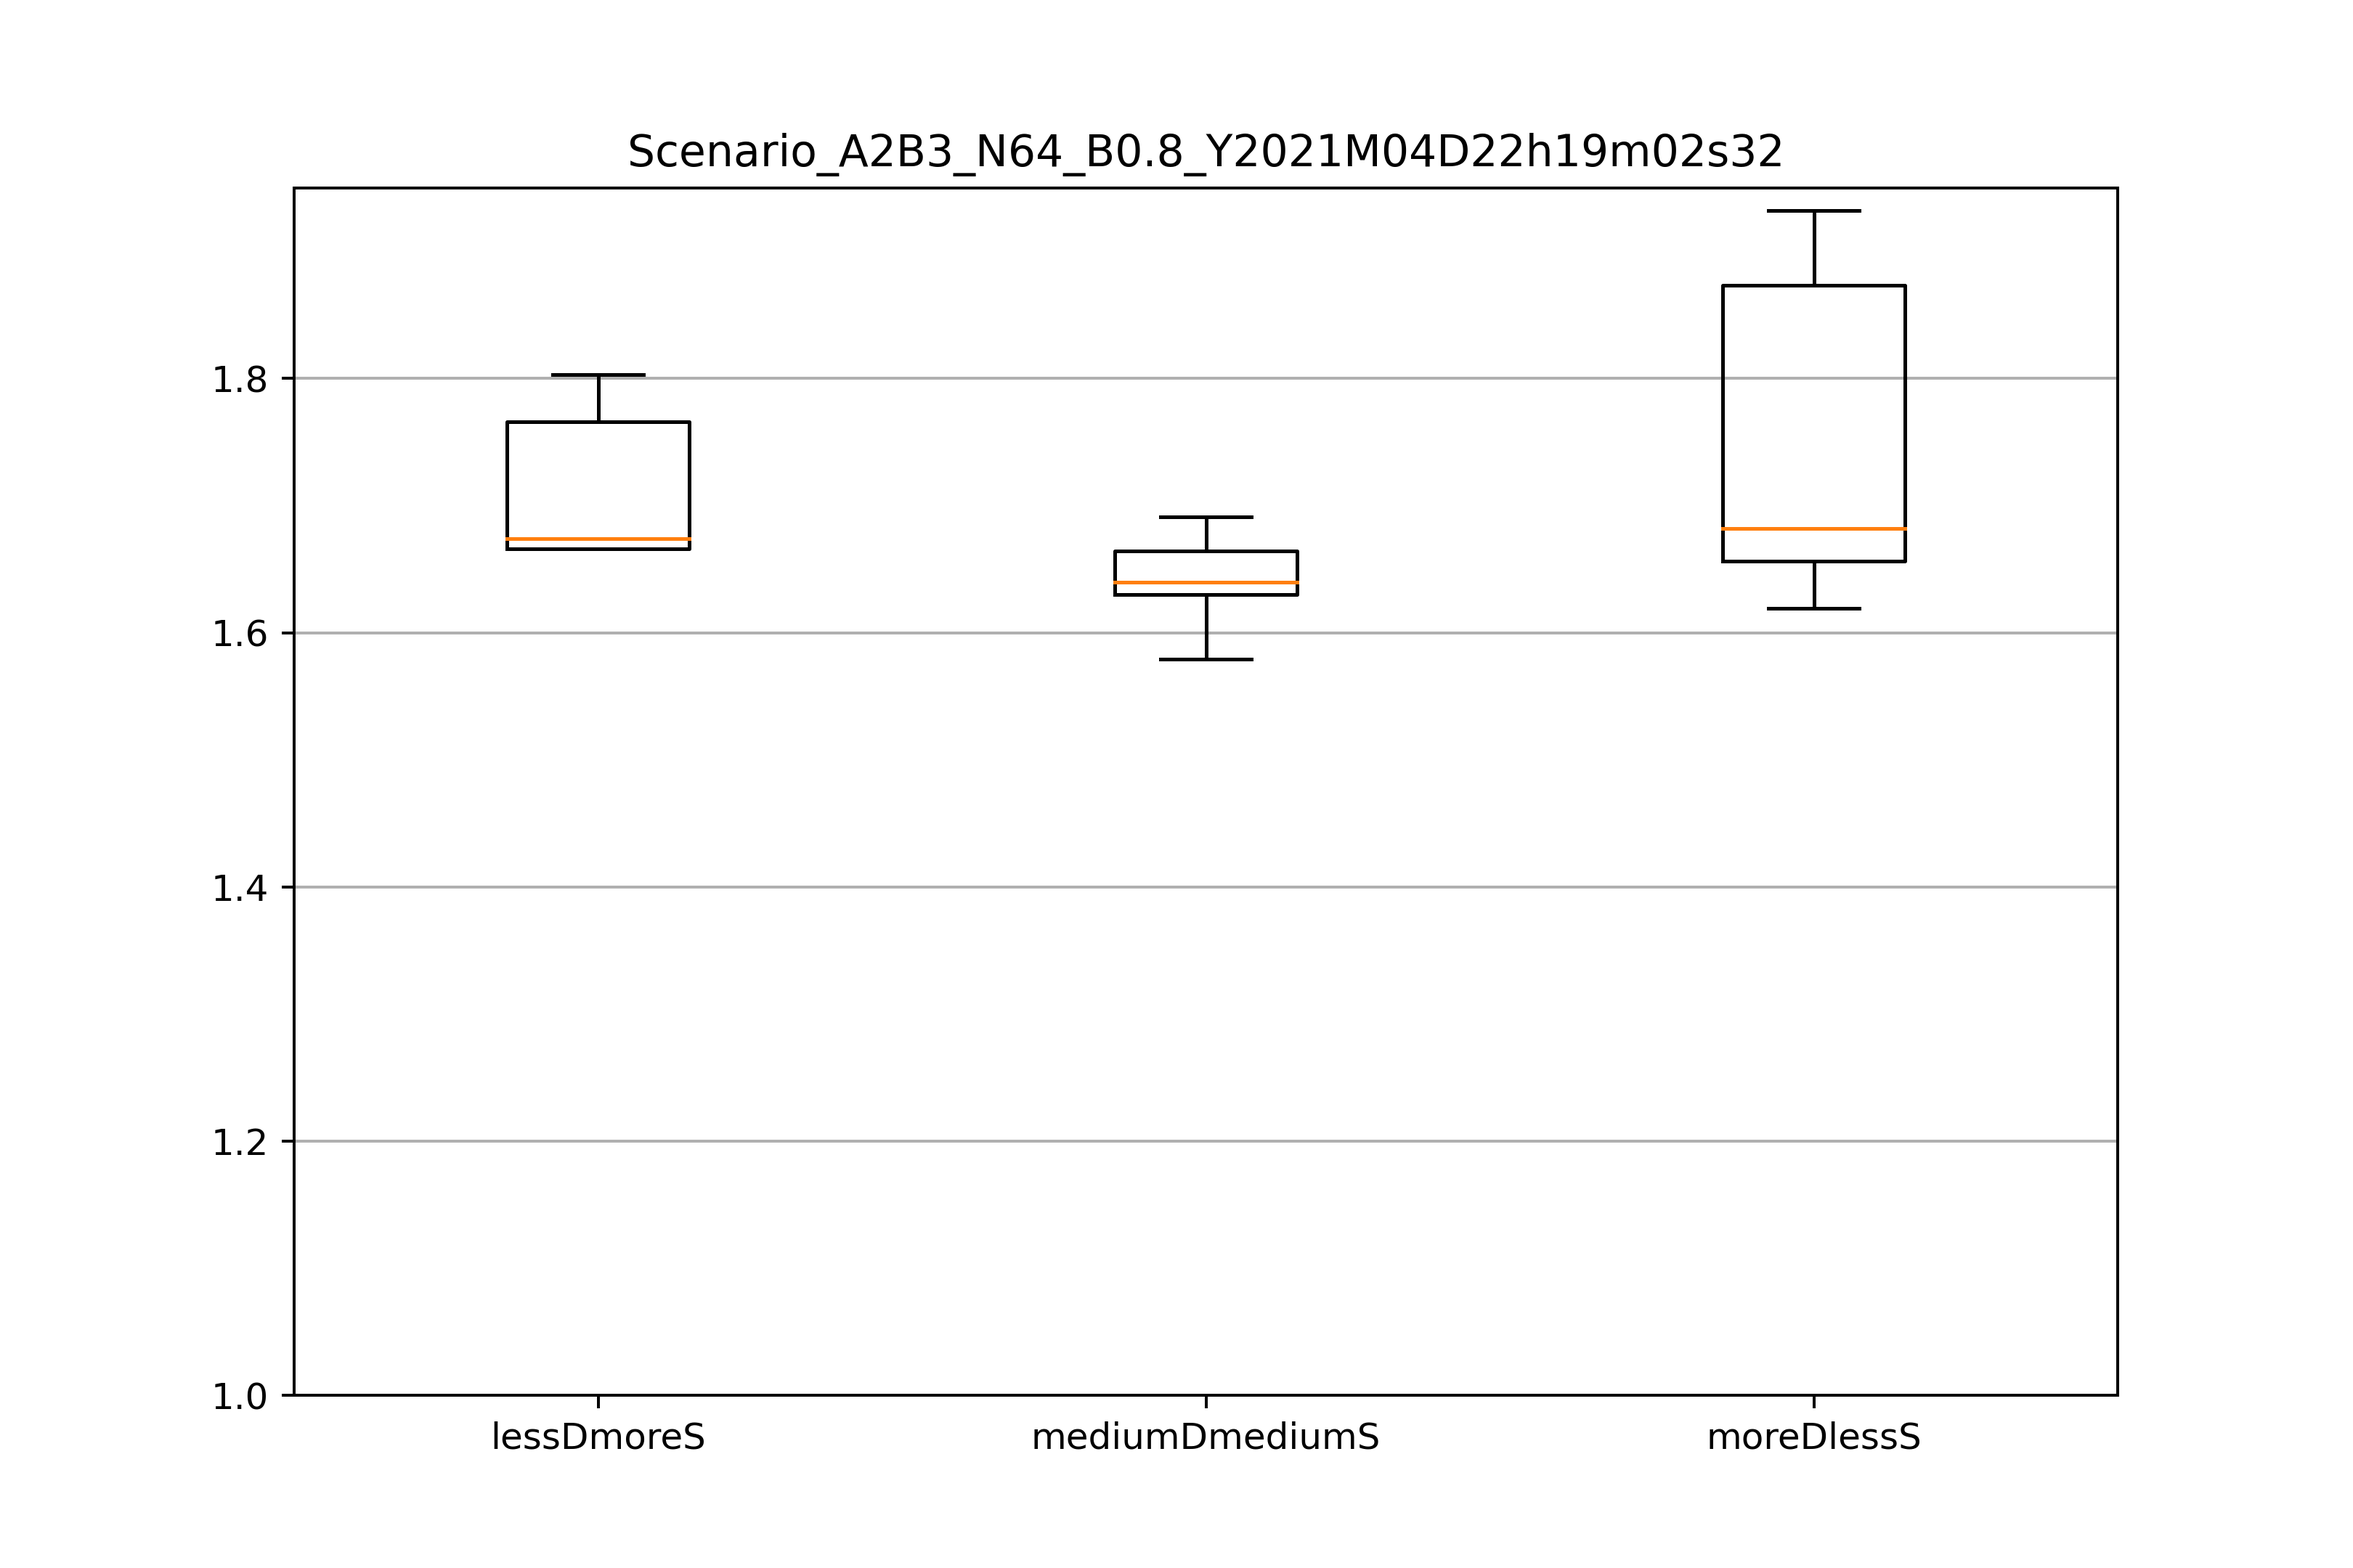
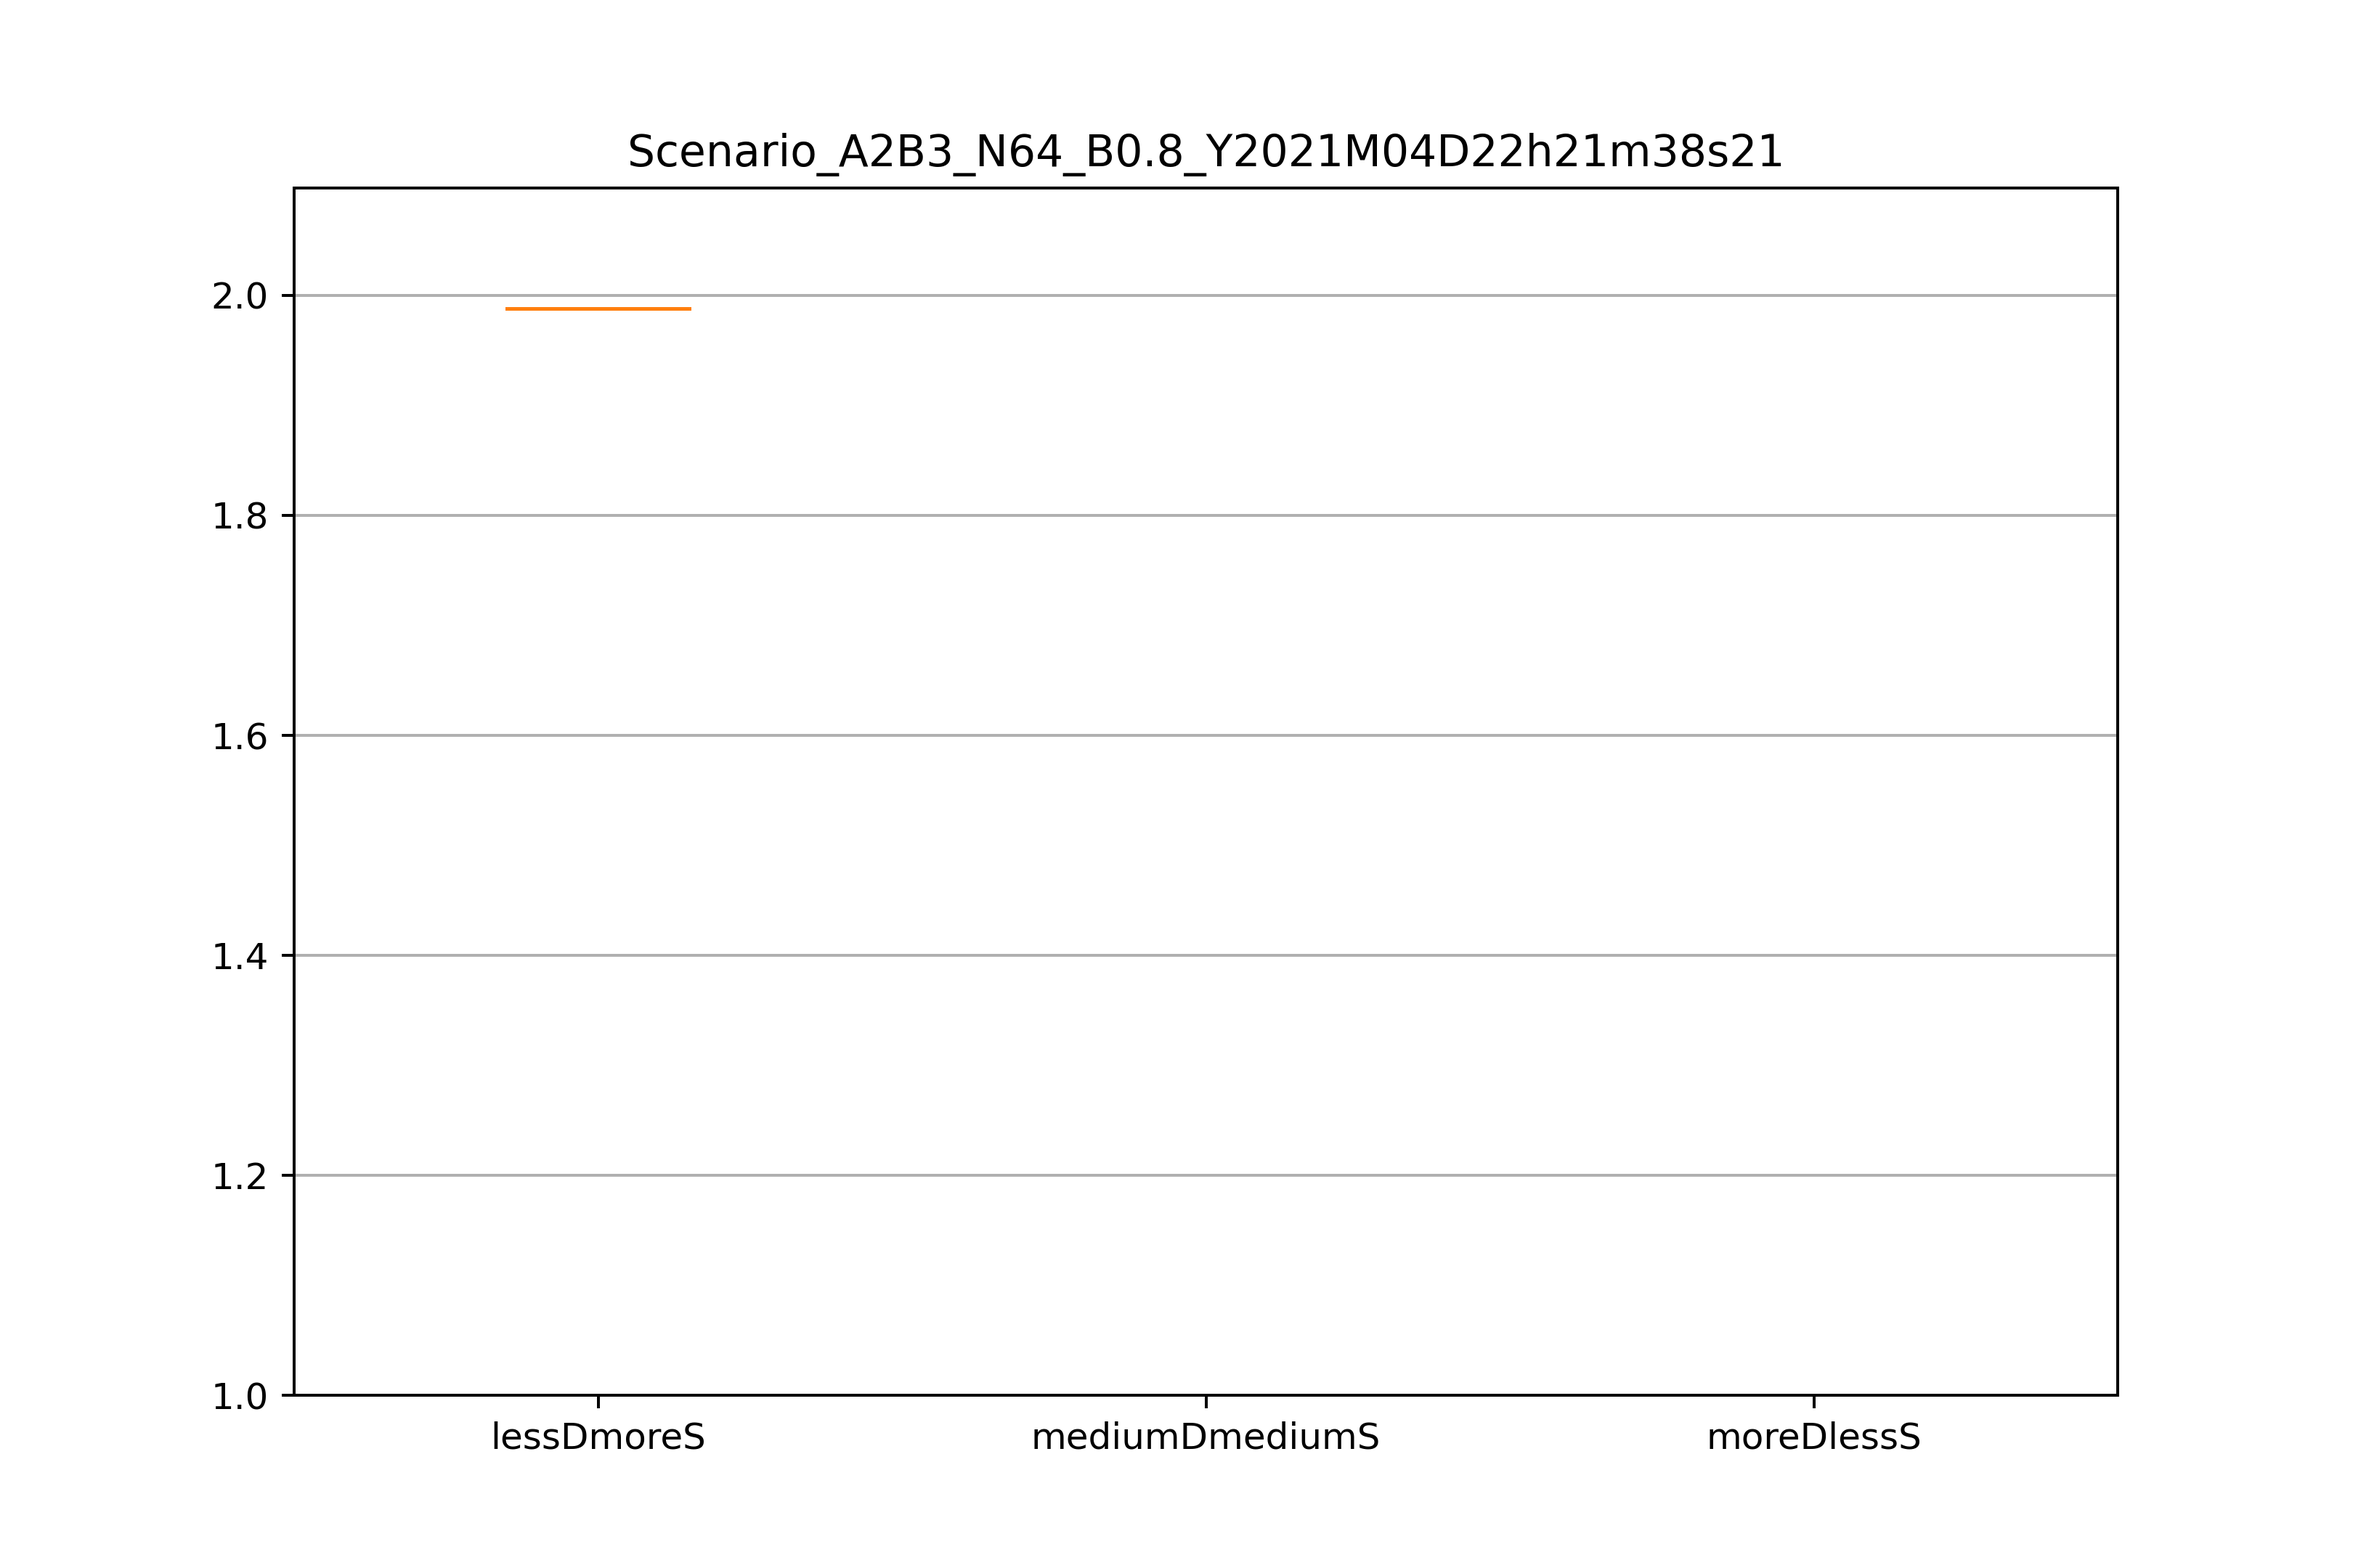
fix epsilon

diff --git a/src/plotting/epsilon_indicator.py b/src/plotting/epsilon_indicator.py
@@ -33,8 +33,8 @@ mu2 = None
 sigma1 = None
 sigma2 = None
 
-data1_filename = 'data/out_diversified_N32_p1mo_i1d.json'
-data2_filename = 'data/out_diversified_N32_p1mo_i1d.json'
+data1_filename = 'data/out_diversified_N64_p1mo_i1d.json'
+data2_filename = 'data/out_diversified_N64_p1mo_i1d.json'
 
 with open(data1_filename) as jsonfile:
     data = json.load(jsonfile)
@@ -80,14 +80,14 @@ for i in range(N2):
 
 P2 = -q * min_sigma2 + max_mu2
 
-B1 = int(N1*0.5)
+B1 = int(N1*0.2)
 print(f'B1:{B1}')
-classical_solutions1_foldername = 'results/scenarioA1_N32_classical'
+classical_solutions1_foldername = 'results/scenarioA2_N64_B0.2_classical'
 classical_solutions1 = []
 
-B2 = int(N2*0.5)
+B2 = int(N2*0.2)
 print(f'B2:{B2}')
-classical_solutions2_foldername = 'results/scenarioA1_N32_classical'
+classical_solutions2_foldername = 'results/scenarioA2_N64_B0.2_classical'
 classical_solutions2 = []
 
 for filename in os.listdir(classical_solutions1_foldername):
@@ -104,8 +104,8 @@ for filename in os.listdir(classical_solutions2_foldername):
             classical_solutions2.append({'sol': data['solution'], 'objective': get_objective_value(data['solution'], N2, B2, mu2, sigma2, P2), 'expected_return': get_expected_return(
                 data['solution'], N2, B2, mu2), 'volatility': get_volatility(data['solution'], N2, B2, sigma2), 'equals_budget': equals_budget(data['solution'], N2, B2)})
 
-set1_foldername = 'results/scenarioA2B3_N32_Pformulated_Cformulated1.000_Allocated_B0.8_moreDlessS_annealer_try5'
-set2_foldername = 'results/scenarioA2B3_N32_Pformulated_Cformulated1.000_Allocated_B0.8_moreDlessS_annealer_try4'
+set1_foldername = 'results/scenarioA2B3_N64_Pformulated_Cformulated1.000_Allocated_B0.2_lessDmoreS_annealer_try5'
+set2_foldername = 'results/scenarioA2B3_N64_Pformulated_Cformulated1.000_Allocated_B0.2_lessDmoreS_annealer_try4'
 
 set1_samples = []
 set2_samples = []
@@ -137,14 +137,22 @@ print(len(set2_samples))
 # 2 columns, 9 per 6 inches figure
 fig, (ax1, ax2) = plt.subplots(ncols=2, figsize=(9, 6))
 
+# Exclude non complying with budget
 set1_dominating_samples = list(
     filter(lambda x: x['equals_budget'], set1_samples))
 set2_dominating_samples = list(
     filter(lambda x: x['equals_budget'], set2_samples))
 
+# Exclude below zero return
+set1_dominating_samples = list(
+    filter(lambda x: x['expected_return'] > 0, set1_dominating_samples))
+set2_dominating_samples = list(
+    filter(lambda x: x['expected_return'] > 0, set2_dominating_samples))
+
 print(len(set1_dominating_samples))
 print(len(set2_dominating_samples))
 
+# Exclude dominated
 set1_dominating_samples = list(filter(lambda x: not any(
     (x['expected_return'] < y['expected_return'] and x['volatility'] > y['volatility']) for y in set1_dominating_samples), set1_dominating_samples))
 set2_dominating_samples = list(filter(lambda x: not any(
@@ -177,7 +185,8 @@ for b in classical_solutions1:
     tmp = float('inf')
     for a in set1_dominating_samples:
         obj_ret_div = b['expected_return'] / a['expected_return']
-        obj_vol_div = (max_sigma1 - b['volatility']) / (max_sigma1 - a['volatility'])
+        obj_vol_div = (max_sigma1 - b['volatility']) / \
+            (max_sigma1 - a['volatility'])
         tmp = min(tmp, max(obj_ret_div, obj_vol_div))
     ax1_epsilon = max(ax1_epsilon, tmp)
 
@@ -186,7 +195,8 @@ for b in classical_solutions2:
     tmp = float('inf')
     for a in set2_dominating_samples:
         obj_ret_div = b['expected_return'] / a['expected_return']
-        obj_vol_div = (max_sigma2 - b['volatility']) / (max_sigma2 - a['volatility'])
+        obj_vol_div = (max_sigma2 - b['volatility']) / \
+            (max_sigma2 - a['volatility'])
         tmp = min(tmp, max(obj_ret_div, obj_vol_div))
     ax2_epsilon = max(ax2_epsilon, tmp)
 

diff --git a/src/plotting/boxplots_simple.py b/src/plotting/boxplots_simple.py
@@ -15,9 +15,9 @@ output_name = f'{scenario_name}_{date}'
 if not os.path.exists('images/' + folder_name):
     os.makedirs('images/' + folder_name)
 
-lessDmoreS = [1.666, 1.674, 1.666, 1.766, 1.803]
-mediumDmediumS = [1.640, 1.691, 1.630, 1.664, 1.579]
-moreDlessS = [1.932, 1.873, 1.682, 1.656, 1.619]
+lessDmoreS = [ 1.988]
+mediumDmediumS = [float('inf'), float('inf'), float('inf'), float('inf'), float('inf')]
+moreDlessS = [float('inf'), float('inf'), float('inf'), float('inf'), float('inf')]
 
 fig1, ax1 = plt.subplots(figsize=(9, 6))
 ax1.set_title(output_name)
